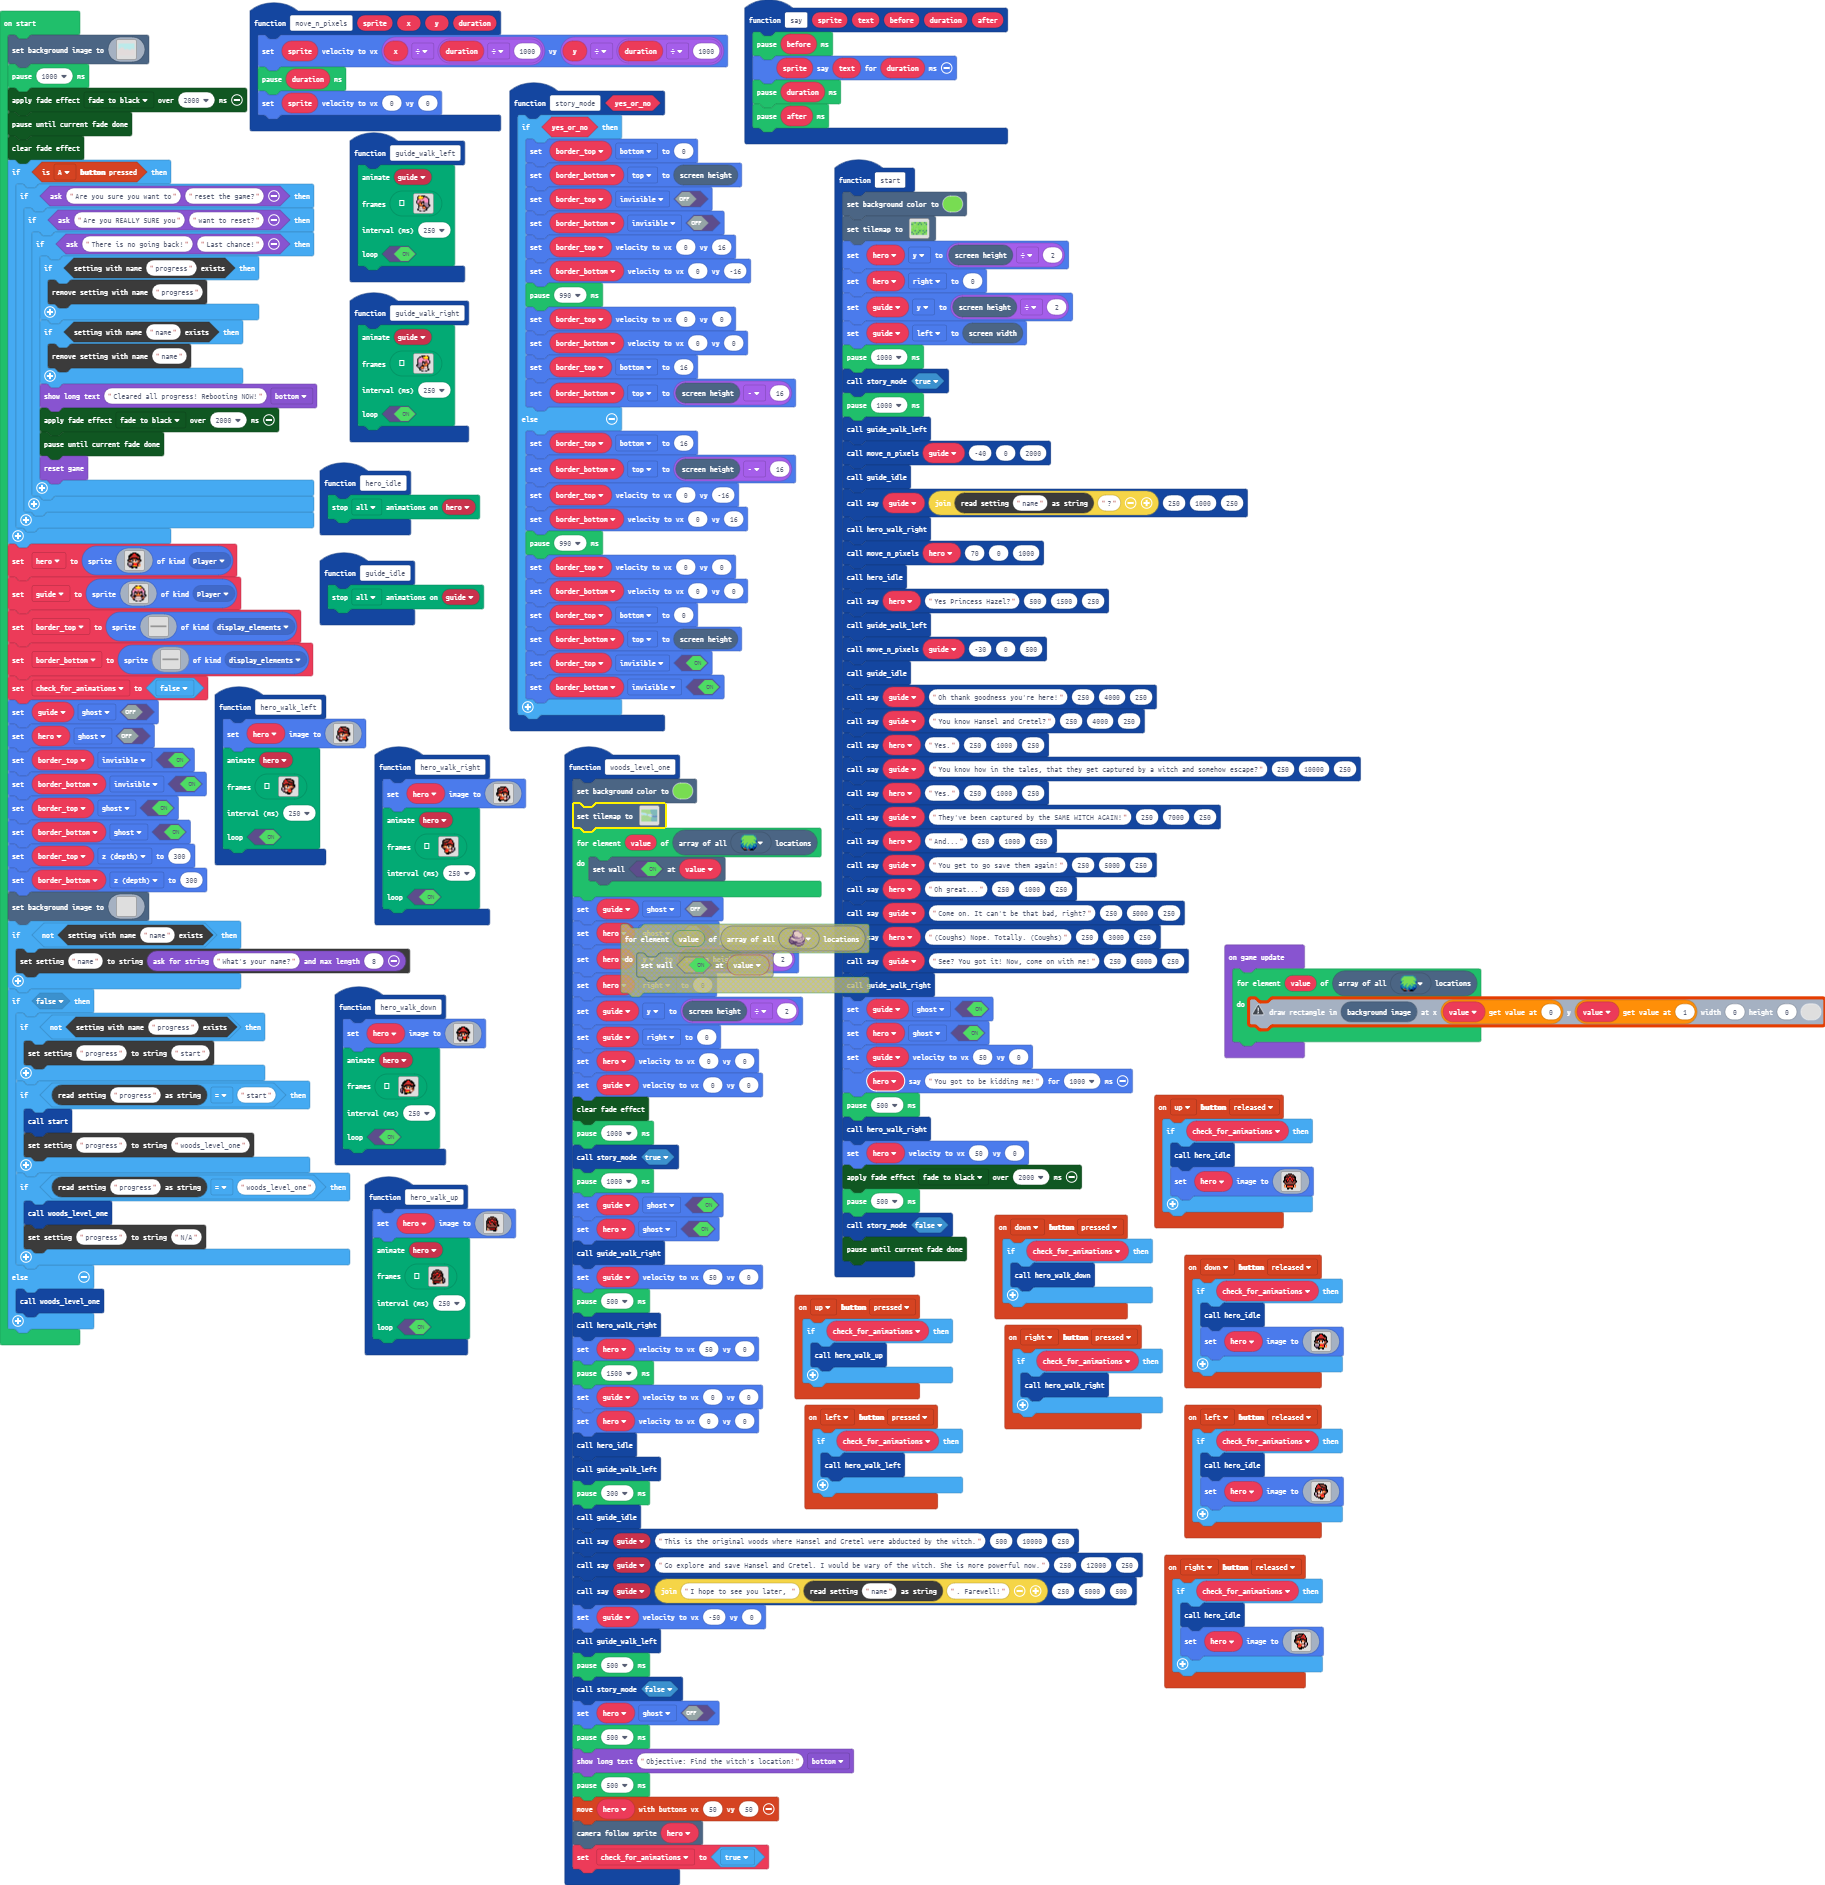
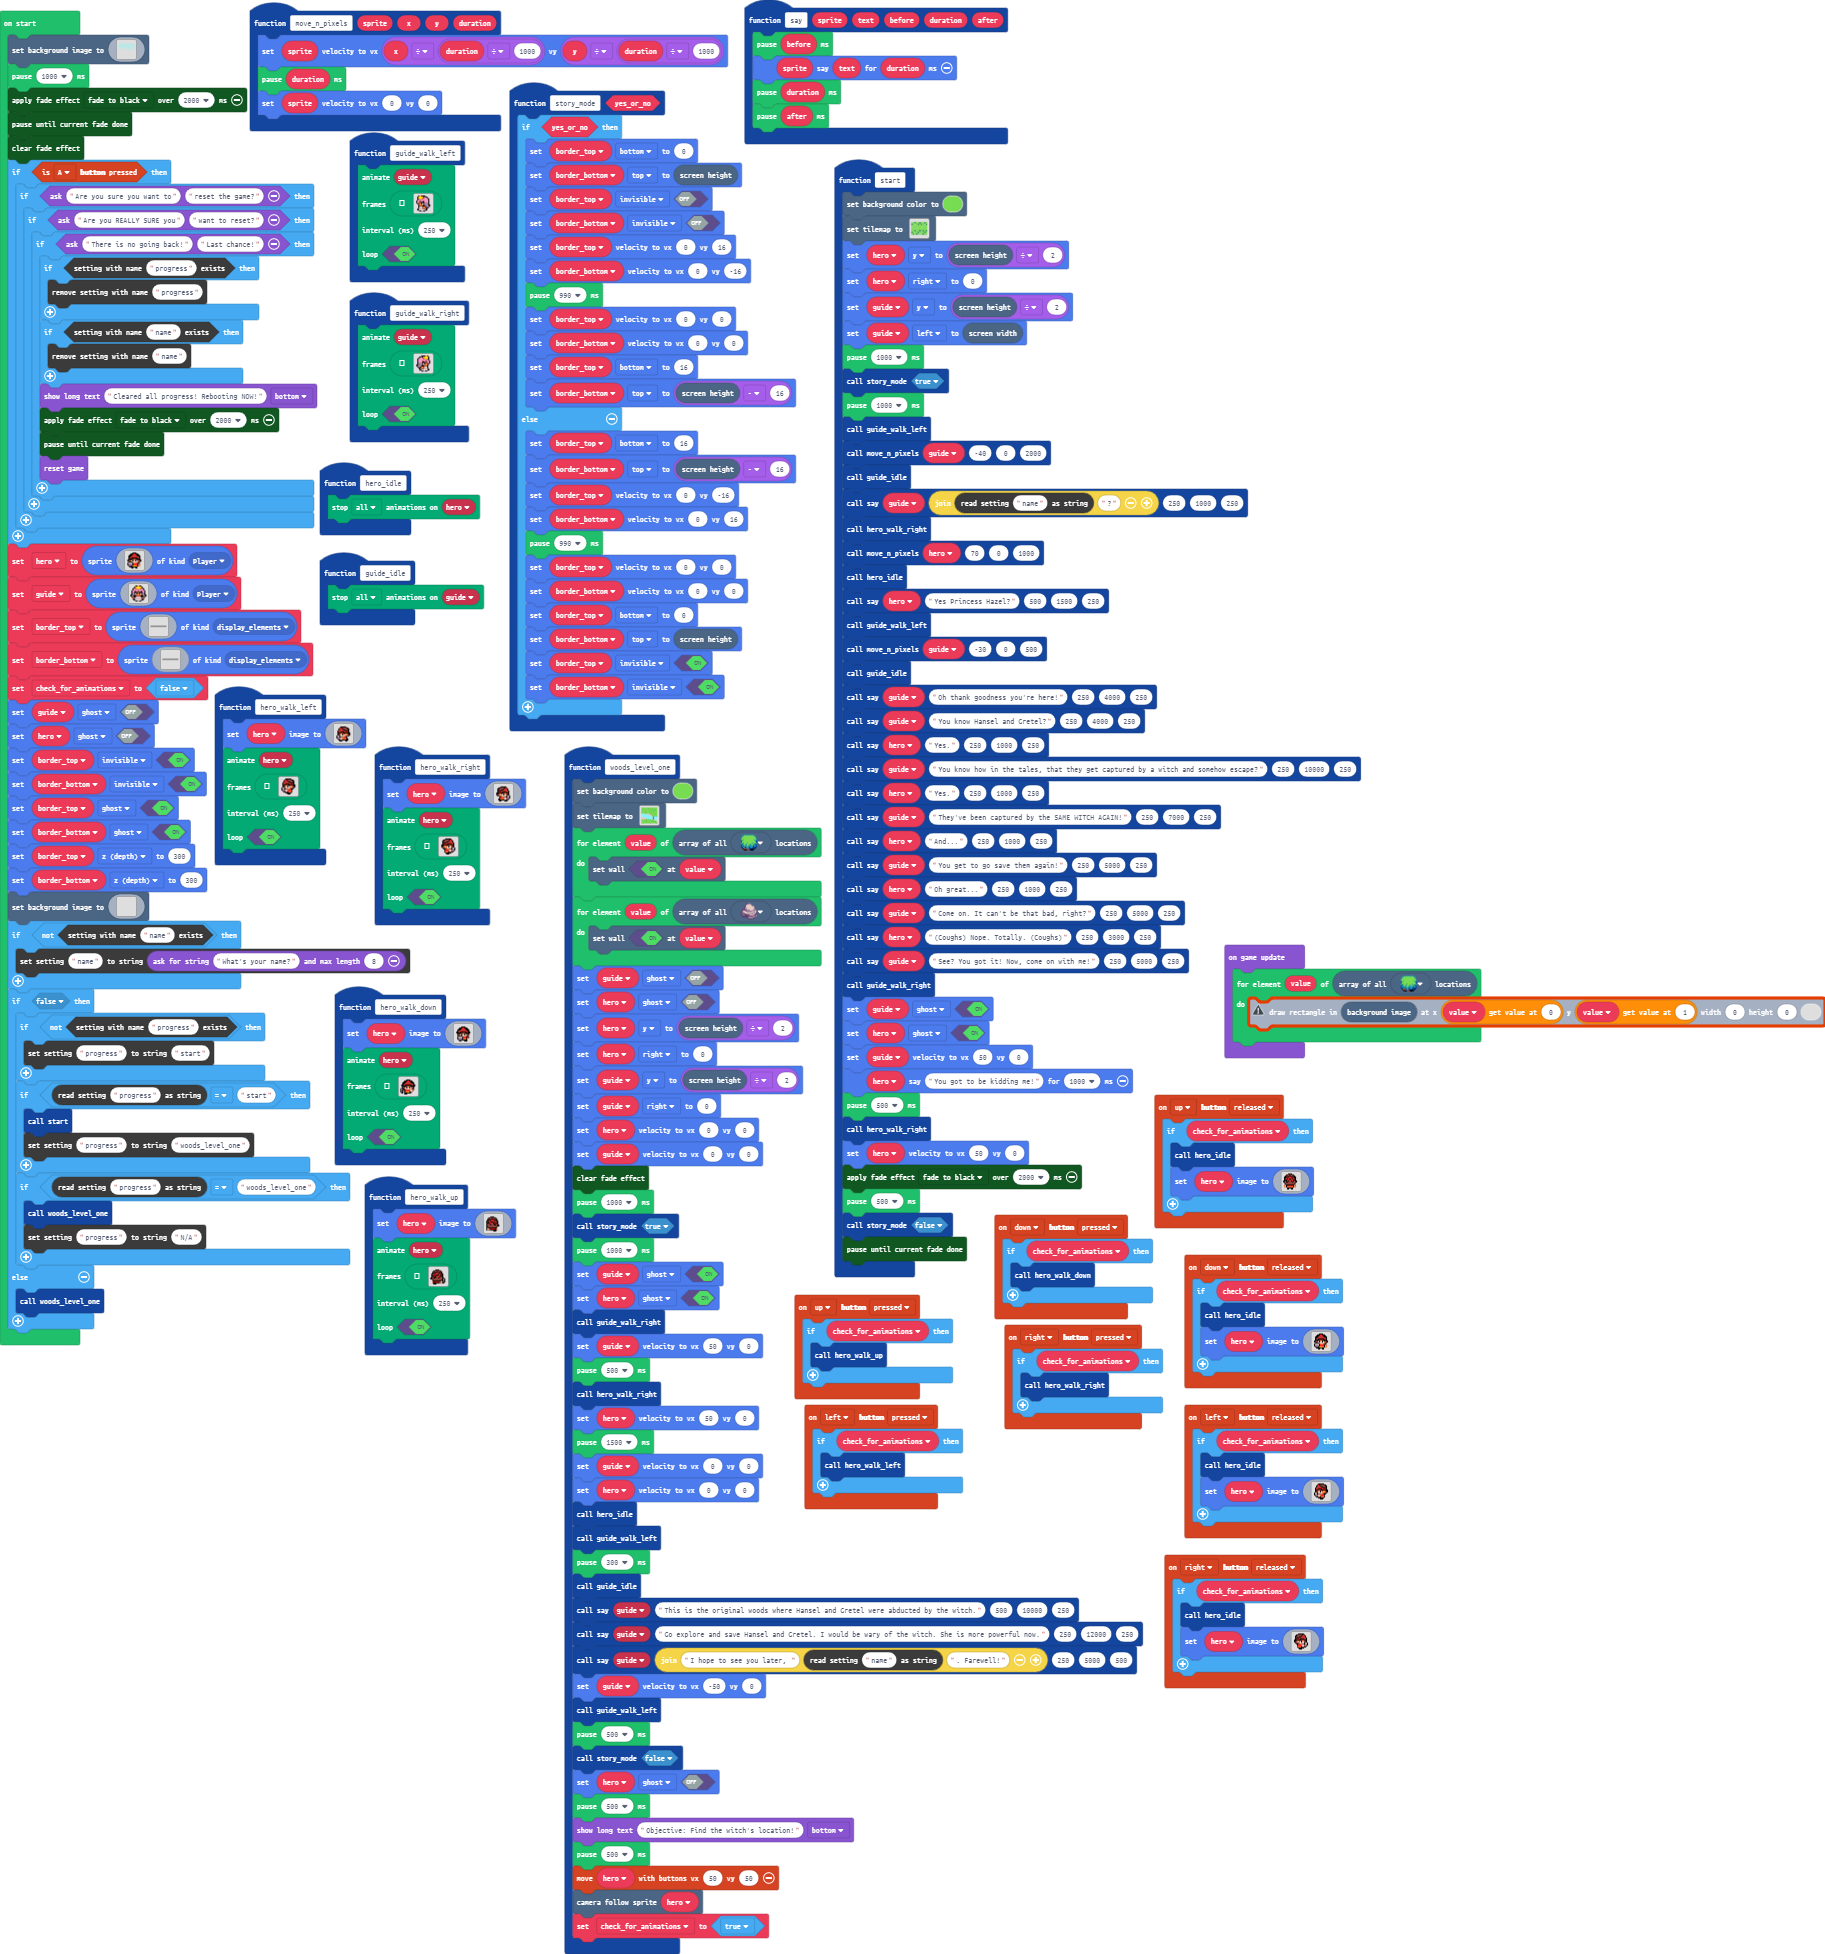
Changed tilemap of level 1

Changed region(s): [[0.0, 0.0, 1.0, 1.0]]

diff --git a/main.ts b/main.ts
@@ -577,61 +577,48 @@ controller.right.onEvent(ControllerButtonEvent.Released, function () {
 function woods_level_one () {
     scene.setBackgroundColor(7)
     tiles.setTilemap(tiles.createTilemap(
[2 lines of base64/hex data omitted]
             img`
-. . . . . . . . . . . . . . . . . . . . . . . . . . . . . . . . . . . . . . . . . . . . . . . . . . . . . . . . . . . . . . . . 
-. . . . . . . . . . . . . . . . . . . . . . . . . . . . . . . . . . . . . . . . . . . . . . . . . . . . . . . . . . . . . . . . 
-. . . . . . . . . . . . . . . . . . . . . . . . . . . . . . . . . . . . . . . . . . . . . . . . . . . . . . . . . . . . . . . . 
-. . . . . . . . . . . . . . . . . . . . . . . . . . . . . . . . . . . . . . . . . . . . . . . . . . . . . . . . . . . . . . . . 
-. . . . . . . . . . . . . . . . . . . . . . . . . . . . . . . . . . . . . . . . . . . . . . . . . . . . . . . . . . . . . . . . 
-. . . . . . . . . . . . . . . . . . . . . . . . . . . . . . . . . . . . . . . . . . . . . . . . . . . . . . . . . . . . . . . . 
-. . . . . . . . . . . . . . . . . . . . . . . . . . . . . . . . . . . . . . . . . . . . . . . . . . . . . . . . . . . . . . . . 
-. . . . . . . . . . . . . . . . . . . . . . . . . . . . . . . . . . . . . . . . . . . . . . . . . . . . . . . . . . . . . . . . 
-. . . . . . . . . . . . . . . . . . . . . . . . . . . . . . . . . . . . . . . . . . . . . . . . . . . . . . . . . . . . . . . . 
-. . . . . . . . . . . . . . . . . . . . . . . . . . . . . . . . . . . . . . . . . . . . . . . . . . . . . . . . . . . . . . . . 
-. . . . . . . . . . . . . . . . . . . . . . . . . . . . . . . . . . . . . . . . . . . . . . . . . . . . . . . . . . . . . . . . 
-. . . . . . . . . . . . . . . . . . . . . . . . . . . . . . . . . . . . . . . . . . . . . . . . . . . . . . . . . . . . . . . . 
-. . . . . . . . . . . . . . . . . . . . . . . . . . . . . . . . . . . . . . . . . . . . . . . . . . . . . . . . . . . . . . . . 
-. . . . . . . . . . . . . . . . . . . . . . . . . . . . . . . . . . . . . . . . . . . . . . . . . . . . . . . . . . . . . . . . 
-. . . . . . . . . . . . . . . . . . . . . . . . . . . . . . . . . . . . . . . . . . . . . . . . . . . . . . . . . . . . . . . . 
-. . . . . . . . . . . . . . . . . . . . . . . . . . . . . . . . . . . . . . . . . . . . . . . . . . . . . . . . . . . . . . . . 
-. . . . . . . . . . . . . . . . . . . . . . . . . . . . . . . . . . . . . . . . . . . . . . . . . . . . . . . . . . . . . . . . 
-. . . . . . . . . . . . . . . . . . . . . . . . . . . . . . . . . . . . . . . . . . . . . . . . . . . . . . . . . . . . . . . . 
-. . . . . . . . . . . . . . . . . . . . . . . . . . . . . . . . . . . . . . . . . . . . . . . . . . . . . . . . . . . . . . . . 
-. . . . . . . . . . . . . . . . . . . . . . . . . . . . . . . . . . . . . . . . . . . . . . . . . . . . . . . . . . . . . . . . 
-. . . . . . . . . . . . . . . . . . . . . . . . . . . . . . . . . . . . . . . . . . . . . . . . . . . . . . . . . . . . . . . . 
-. . . . . . . . . . . . . . . . . . . . . . . . . . . . . . . . . . . . . . . . . . . . . . . . . . . . . . . . . . . . . . . . 
-. . . . . . . . . . . . . . . . . . . . . . . . . . . . . . . . . . . . . . . . . . . . . . . . . . . . . . . . . . . . . . . . 
-. . . . . . . . . . . . . . . . . . . . . . . . . . . . . . . . . . . . . . . . . . . . . . . . . . . . . . . . . . . . . . . . 
-. . . . . . . . . . . . . . . . . . . . . . . . . . . . . . . . . . . . . . . . . . . . . . . . . . . . . . . . . . . . . . . . 
-. . . . . . . . . . . . . . . . . . . . . . . . . . . . . . . . . . . . . . . . . . . . . . . . . . . . . . . . . . . . . . . . 
-. . . . . . . . . . . . . . . . . . . . . . . . . . . . . . . . . . . . . . . . . . . . . . . . . . . . . . . . . . . . . . . . 
-. . . . . . . . . . . . . . . . . . . . . . . . . . . . . . . . . . . . . . . . . . . . . . . . . . . . . . . . . . . . . . . . 
-. . . . . . . . . . . . . . . . . . . . . . . . . . . . . . . . . . . . . . . . . . . . . . . . . . . . . . . . . . . . . . . . 
-. . . . . . . . . . . . . . . . . . . . . . . . . . . . . . . . . . . . . . . . . . . . . . . . . . . . . . . . . . . . . . . . 
-. . . . . . . . . . . . . . . . . . . . . . . . . . . . . . . . . . . . . . . . . . . . . . . . . . . . . . . . . . . . . . . . 
-. . . . . . . . . . . . . . . . . . . . . . . . . . . . . . . . . . . . . . . . . . . . . . . . . . . . . . . . . . . . . . . . 
-. . . . . . . . . . . . . . . . . . . . . . . . . . . . . . . . . . . . . . . . . . . . . . . . . . . . . . . . . . . . . . . . 
-. . . . . . . . . . . . . . . . . . . . . . . . . . . . . . . . . . . . . . . . . . . . . . . . . . . . . . . . . . . . . . . . 
-. . . . . . . . . . . . . . . . . . . . . . . . . . . . . . . . . . . . . . . . . . . . . . . . . . . . . . . . . . . . . . . . 
-. . . . . . . . . . . . . . . . . . . . . . . . . . . . . . . . . . . . . . . . . . . . . . . . . . . . . . . . . . . . . . . . 
-. . . . . . . . . . . . . . . . . . . . . . . . . . . . . . . . . . . . . . . . . . . . . . . . . . . . . . . . . . . . . . . . 
-. . . . . . . . . . . . . . . . . . . . . . . . . . . . . . . . . . . . . . . . . . . . . . . . . . . . . . . . . . . . . . . . 
-. . . . . . . . . . . . . . . . . . . . . . . . . . . . . . . . . . . . . . . . . . . . . . . . . . . . . . . . . . . . . . . . 
-. . . . . . . . . . . . . . . . . . . . . . . . . . . . . . . . . . . . . . . . . . . . . . . . . . . . . . . . . . . . . . . . 
-. . . . . . . . . . . . . . . . . . . . . . . . . . . . . . . . . . . . . . . . . . . . . . . . . . . . . . . . . . . . . . . . 
-. . . . . . . . . . . . . . . . . . . . . . . . . . . . . . . . . . . . . . . . . . . . . . . . . . . . . . . . . . . . . . . . 
-. . . . . . . . . . . . . . . . . . . . . . . . . . . . . . . . . . . . . . . . . . . . . . . . . . . . . . . . . . . . . . . . 
-. . . . . . . . . . . . . . . . . . . . . . . . . . . . . . . . . . . . . . . . . . . . . . . . . . . . . . . . . . . . . . . . 
-. . . . . . . . . . . . . . . . . . . . . . . . . . . . . . . . . . . . . . . . . . . . . . . . . . . . . . . . . . . . . . . . 
-. . . . . . . . . . . . . . . . . . . . . . . . . . . . . . . . . . . . . . . . . . . . . . . . . . . . . . . . . . . . . . . . 
-. . . . . . . . . . . . . . . . . . . . . . . . . . . . . . . . . . . . . . . . . . . . . . . . . . . . . . . . . . . . . . . . 
-. . . . . . . . . . . . . . . . . . . . . . . . . . . . . . . . . . . . . . . . . . . . . . . . . . . . . . . . . . . . . . . . 
+. . . . . . . . . . . . . . . . . . . . . . . . . . . . . . . . 
+. . . . . . . . . . . . . . . . . . . . . . . . . . . . . . . . 
+. . . . . . . . . . . . . . . . . . . . . . . . . . . . . . . . 
+. . . . . . . . . . . . . . . . . . . . . . . . . . . . . . . . 
+. . . . . . . . . . . . . . . . . . . . . . . . . . . . . . . . 
+. . . . . . . . . . . . . . . . . . . . . . . . . . . . . . . . 
+. . . . . . . . . . . . . . . . . . . . . . . . . . . . . . . . 
+. . . . . . . . . . . . . . . . . . . . . . . . . . . . . . . . 
+. . . . . . . . . . . . . . . . . . . . . . . . . . . . . . . . 
+. . . . . . . . . . . . . . . . . . . . . . . . . . . . . . . . 
+. . . . . . . . . . . . . . . . . . . . . . . . . . . . . . . . 
+. . . . . . . . . . . . . . . . . . . . . . . . . . . . . . . . 
+. . . . . . . . . . . . . . . . . . . . . . . . . . . . . . . . 
+. . . . . . . . . . . . . . . . . . . . . . . . . . . . . . . . 
+. . . . . . . . . . . . . . . . . . . . . . . . . . . . . . . . 
+. . . . . . . . . . . . . . . . . . . . . . . . . . . . . . . . 
+. . . . . . . . . . . . . . . . . . . . . . . . . . . . . . . . 
+. . . . . . . . . . . . . . . . . . . . . . . . . . . . . . . . 
+. . . . . . . . . . . . . . . . . . . . . . . . . . . . . . . . 
+. . . . . . . . . . . . . . . . . . . . . . . . . . . . . . . . 
+. . . . . . . . . . . . . . . . . . . . . . . . . . . . . . . . 
+. . . . . . . . . . . . . . . . . . . . . . . . . . . . . . . . 
+. . . . . . . . . . . . . . . . . . . . . . . . . . . . . . . . 
+. . . . . . . . . . . . . . . . . . . . . . . . . . . . . . . . 
+. . . . . . . . . . . . . . . . . . . . . . . . . . . . . . . . 
+. . . . . . . . . . . . . . . . . . . . . . . . . . . . . . . . 
+. . . . . . . . . . . . . . . . . . . . . . . . . . . . . . . . 
+. . . . . . . . . . . . . . . . . . . . . . . . . . . . . . . . 
+. . . . . . . . . . . . . . . . . . . . . . . . . . . . . . . . 
+. . . . . . . . . . . . . . . . . . . . . . . . . . . . . . . . 
+. . . . . . . . . . . . . . . . . . . . . . . . . . . . . . . . 
+. . . . . . . . . . . . . . . . . . . . . . . . . . . . . . . . 
 `,
             [myTiles.tile0,sprites.castle.tileGrass1,sprites.castle.tileGrass3,sprites.castle.tileGrass2,sprites.builtin.forestTiles0,myTiles.tile1,sprites.builtin.forestTiles1,sprites.builtin.forestTiles2,sprites.builtin.forestTiles3,myTiles.tile2,sprites.castle.tileDarkGrass1,sprites.castle.tileDarkGrass3,sprites.castle.tileDarkGrass2,myTiles.tile3,myTiles.tile4,myTiles.tile6,myTiles.tile7,sprites.castle.rock0,sprites.castle.tilePath5,sprites.castle.tilePath2,sprites.castle.tilePath8,sprites.castle.tilePath4,sprites.castle.tilePath1,sprites.castle.tilePath3,sprites.castle.tilePath6,sprites.castle.tilePath7,sprites.castle.tilePath9],
             TileScale.Sixteen
         ))
     for (let value of tiles.getTilesByType(sprites.builtin.forestTiles0)) {
+        tiles.setWallAt(value, true)
+    }
+    for (let value of tiles.getTilesByType(sprites.castle.rock0)) {
         tiles.setWallAt(value, true)
     }
     guide.setFlag(SpriteFlag.Ghost, false)
